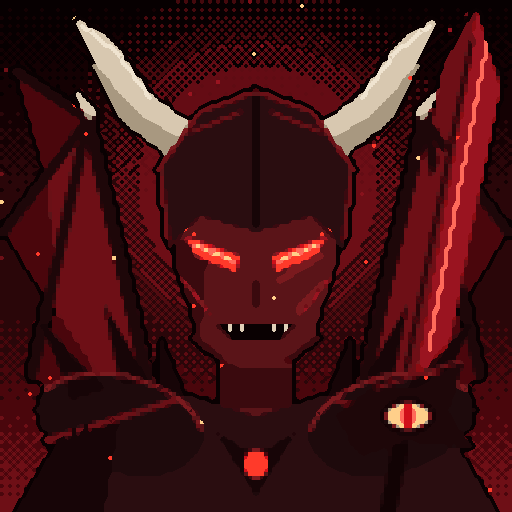
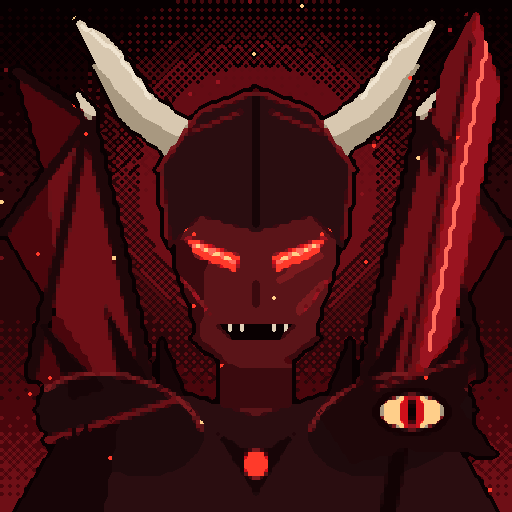
Aatrox: pixel-art renderer and portrait in game; Darkin Blade weapon in Pixel Studio
The game now draws Aatrox as cel-shaded pixel art every frame from its own
pose joints and Darkin Blade angle, so every move and state is unchanged.
The blade keeps the game's size, bat-wing guard and eye (half-lidded,
opening and glowing with Deathbringer). Sprites are cached with a 15 fps
pose clock. His portrait is the Pixel Studio bust with a larger blade eye.
The character builder gains a Darkin Blade weapon with the same geometry.

Claude-Session: https://claude.ai/code/session_01NEpsBomhZztKFMZ78LpZsN

diff --git a/js/aatrox_pixel.js b/js/aatrox_pixel.js
@@ -1,0 +1,210 @@
+// ============================================================
+//  MOONKAI — AATROX pixel art (drawn with the Moonkai Pixel Studio style).
+//
+//  Aatrox is rendered live as cel-shaded pixel art: every frame takes the
+//  game's own pose joints (humanPose) and Darkin Blade angle (aatSwordAng),
+//  paints him at half resolution with outlines and palette-snapped colours,
+//  then blits the sprite back with crisp nearest-neighbour pixels.
+//  All moves, timings and states stay exactly as the game drives them.
+// ============================================================
+
+const AATPX = (() => {
+  const K = 0.5;                                   // art pixels per game unit
+  const X0 = -175, Y0 = -270, UW = 400, UH = 310;  // sprite window in game units
+  const PW = Math.round(UW * K), PH = Math.round(UH * K);
+  const mk = () => { const c = document.createElement('canvas'); c.width = PW; c.height = PH; return [c, c.getContext('2d', { willReadFrequently: true })]; };
+  const [cv, X] = mk(), [tc, T] = mk();
+  const OUT = '#0a0102';
+  const PAL = [OUT, '#120304', '#150204', '#170507', '#1e0709', '#1e0a0c', '#2a0609', '#2a0a0c', '#2a0d10', '#3a080c', '#3a0a10', '#4a060c',
+    '#5a1418', '#6e0f16', '#7a1a1e', '#9a1420', '#aa141e', '#6a1016', '#ff2a2a', '#ff5a3a', '#d8c8b0', '#a89880', '#e0d0b8', '#ffcf8a', '#d0101a', '#000000', '#1b0306', '#140405', '#150406'];
+  const pal = PAL.map(h => { const n = parseInt(h.slice(1), 16); return [n >> 16 & 255, n >> 8 & 255, n & 255]; });
+  const snapCache = new Map(), cache = new Map();
+  const so = 2.4;                                  // cel-shade offset (units): light from top-left
+  const lw = 2 / K;                                // outline stroke width (units) -> 1 art pixel outside
+
+  const setT = ctx => ctx.setTransform(K, 0, 0, K, -X0 * K, -Y0 * K);
+  // Fill pieces in shade, overlay the base colour shifted toward the light, outline underneath.
+  function paint(pieces, base, shade, outline = true) {
+    T.setTransform(1, 0, 0, 1, 0, 0); T.clearRect(0, 0, PW, PH); setT(T);
+    T.fillStyle = shade; for (const p of pieces) T.fill(p);
+    T.globalCompositeOperation = 'source-atop'; T.fillStyle = base;
+    T.save(); T.translate(-so, -so); for (const p of pieces) T.fill(p); T.restore();
+    if (outline) { T.globalCompositeOperation = 'destination-over'; T.strokeStyle = OUT; T.lineWidth = lw; T.lineJoin = 'round'; for (const p of pieces) T.stroke(p); }
+    T.globalCompositeOperation = 'source-over';
+    X.setTransform(1, 0, 0, 1, 0, 0); X.drawImage(tc, 0, 0); setT(X);
+  }
+  const cap = (a, b, r) => { const p = new Path2D(), d = Math.hypot(b[0] - a[0], b[1] - a[1]) || 1, nx = -(b[1] - a[1]) / d * r, ny = (b[0] - a[0]) / d * r;
+    p.arc(a[0], a[1], r, 0, 7); p.moveTo(b[0] + r, b[1]); p.arc(b[0], b[1], r, 0, 7);
+    p.moveTo(a[0] + nx, a[1] + ny); p.lineTo(b[0] + nx, b[1] + ny); p.lineTo(b[0] - nx, b[1] - ny); p.lineTo(a[0] - nx, a[1] - ny); p.closePath(); return p; };
+  const poly = pts => { const p = new Path2D(); pts.forEach((q, i) => i ? p.lineTo(q[0], q[1]) : p.moveTo(q[0], q[1])); p.closePath(); return p; };
+  const ell = (x, y, rx, ry, rot = 0, a0 = 0, a1 = 7) => { const p = new Path2D(); p.ellipse(x, y, rx, ry, rot, a0, a1); if (a1 < 7) p.closePath(); return p; };
+  const moved = (p, m) => { const q = new Path2D(); q.addPath(p, m); return q; };
+  const L = (a, b, t) => [a[0] + (b[0] - a[0]) * t, a[1] + (b[1] - a[1]) * t];
+
+  // ---- the Darkin Blade: same geometry as the game's vector blade, with the eye ----
+  function blade(hx, hy, len, ang, o) {
+    const w = o.w || 1, bw = 14 * w, m = new DOMMatrix().translate(hx, hy).rotate(ang * 180 / Math.PI);
+    paint([moved(cap([-24 * w, 0], [6, 0], 2.8 * w), m)], '#140405', '#0a0102');
+    paint([moved(poly([[-24 * w, -4], [-34 * w, 0], [-24 * w, 4]]), m)], '#2a0a0c', '#150406');
+    const body = new Path2D(); body.moveTo(12, -bw * .7);
+    for (let i = 1; i <= 7; i++) body.lineTo(12 + (len - 12) * i / 8, -bw * .7 * (1 - i / 9) - (i % 2 ? 7 * w : 0));
+    body.lineTo(len, bw * .05); body.quadraticCurveTo(len * .62, bw * 1.05, 12, bw * .75); body.closePath();
+    paint([moved(body, m)], '#6e0f16', '#3a080c');
+    X.save(); X.transform(m.a, m.b, m.c, m.d, m.e, m.f);
+    X.strokeStyle = o.glow > 0 ? '#ff5a3a' : '#aa141e'; X.lineWidth = 2.6 * w; X.lineCap = 'round';
+    X.beginPath(); X.moveTo(18, bw * .12); X.quadraticCurveTo(len * .55, bw * .3, len * .9, bw * .08); X.stroke();
+    X.strokeStyle = '#9a1420'; X.lineWidth = 1.6; X.beginPath(); X.moveTo(14, -bw * .62); X.lineTo(len * .96, -bw * .02); X.stroke();
+    X.restore();
+    const guard = new Path2D(); guard.moveTo(4, -18 * w); guard.quadraticCurveTo(14, -6, 8, 0); guard.quadraticCurveTo(14, 6, 4, 18 * w);
+    guard.lineTo(16, 10); guard.lineTo(18, 0); guard.lineTo(16, -10); guard.closePath();
+    paint([moved(guard, m)], '#1e0709', '#120304');
+    // the eye: lid, sclera, slit iris, pupil
+    const ex = len * .3, ew = 11 * w, eh = 7 * w * Math.max(.08, o.eye);
+    paint([moved(ell(ex, 0, ew + 2.5, Math.max(3, eh + 2.5)), m)], '#150204', '#150204');
+    X.save(); X.transform(m.a, m.b, m.c, m.d, m.e, m.f);
+    if (o.eye > .1) {
+      X.fillStyle = '#ffcf8a'; X.beginPath(); X.ellipse(ex, 0, ew, eh, 0, 0, 7); X.fill();
+      X.fillStyle = '#d0101a'; X.beginPath(); X.ellipse(ex, 0, ew * .45, eh, 0, 0, 7); X.fill();
+      X.fillStyle = '#000000'; X.beginPath(); X.ellipse(ex, 0, Math.max(1.2, ew * .14), eh * .9, 0, 0, 7); X.fill();
+    } else { X.strokeStyle = '#ff2a2a'; X.lineWidth = 2; X.beginPath(); X.moveTo(ex - ew, 0); X.lineTo(ex + ew, 0); X.stroke(); }
+    X.restore();
+    return m.transformPoint(new DOMPoint(ex, 0));
+  }
+
+  // ---- bat wings (same rig as the game) ----
+  function wings(P, t, big) {
+    const s = big ? 1.25 : .55, flap = Math.sin(t * (big ? 5 : 2.5)) * (big ? .12 : .04);
+    for (const side of [-1, 1]) {
+      const m = new DOMMatrix().translate(P.sh[0] - 6, P.sh[1] + 2).rotate(((big ? -.35 : -.95) + side * (big ? .28 : .12) + flap * side) * 180 / Math.PI).scale(s, s);
+      const mem = new Path2D(); mem.moveTo(0, 0); mem.lineTo(-34, -40); mem.lineTo(-92, -72); mem.quadraticCurveTo(-84, -48, -104, -22);
+      mem.quadraticCurveTo(-86, -10, -86, 18); mem.quadraticCurveTo(-64, 12, -44, 34); mem.quadraticCurveTo(-26, 16, 0, 10); mem.closePath();
+      const far = side < 0;
+      paint([moved(mem, m)], far ? '#2a0609' : '#4a060c', far ? '#1b0306' : '#2a0609');
+      const pt = (x, y) => { const q = m.transformPoint(new DOMPoint(x, y)); return [q.x, q.y]; };
+      const J = pt(-34, -40), r = Math.max(1.6, 2.2 * s);
+      paint([cap(pt(0, 0), J, r), cap(J, pt(-92, -72), r), cap(J, pt(-104, -22), r * .8), cap(J, pt(-86, 18), r * .8), cap(J, pt(-44, 34), r * .8)], '#1e0709', '#120304');
+      paint([poly([J, pt(-40, -54), pt(-29, -44)])], '#d8c8b0', '#a89880');
+    }
+  }
+
+  function snap() {
+    X.setTransform(1, 0, 0, 1, 0, 0);
+    const img = X.getImageData(0, 0, PW, PH), d = img.data;
+    for (let i = 0; i < d.length; i += 4) {
+      if (d[i + 3] < 110) { d[i + 3] = 0; continue; }
+      const key = d[i] << 16 | d[i + 1] << 8 | d[i + 2];
+      let c = snapCache.get(key);
+      if (!c) {
+        let bd = 1e9;
+        for (const q of pal) { const e = (d[i] - q[0]) ** 2 * 2 + (d[i + 1] - q[1]) ** 2 * 4 + (d[i + 2] - q[2]) ** 2 * 3; if (e < bd) { bd = e; c = q; } }
+        snapCache.set(key, c);
+      }
+      d[i] = c[0]; d[i + 1] = c[1]; d[i + 2] = c[2]; d[i + 3] = 255;
+    }
+    X.putImageData(img, 0, 0);
+  }
+
+  function draw(c, v) {
+    const t = v.anim || 0, D = !!v.transformed;
+    if (v.state === 'cocoon') { drawAatroxCocoon(c, v, t); return; }
+    // Pixel-art timing: the pose clock steps at 15 fps and finished sprites are cached,
+    // so each pose is painted once and reused across game frames.
+    const tq = Math.round(t * 15) / 15, P = humanPose(v.pose, tq), B = 1.04;
+    const ready = v.dbReady ? .6 + .4 * Math.sin(tq * 8) : 0, blink = (tq % 4.3) < .12 ? .1 : 1;
+    const eye = (v.dbReady || D ? 1 : .35) * blink, glow = Math.max(ready, D ? .45 : 0), ang = aatSwordAng(v);
+    const len = D ? 150 : 124, bw = D ? 1.15 : 1;
+    const key = `${v.pose}|${tq}|${D ? 1 : 0}|${eye}|${glow > 0 ? 1 : 0}|${Math.round(ang * 20)}`;
+    let spr = cache.get(key), eyeAt;
+    if (spr) { cache.delete(key); cache.set(key, spr); eyeAt = spr.eyeAt; }
+    else {
+    X.setTransform(1, 0, 0, 1, 0, 0); X.clearRect(0, 0, PW, PH); setT(X);
+    const skin = D ? ['#9a1420', '#6e0f16'] : ['#7a1a1e', '#5a1418'], skinF = D ? ['#6e0f16', '#4a060c'] : ['#5a1418', '#3a0a10'];
+    const acc = D ? '#ff2a2a' : '#6a1016';
+
+    wings(P, tq, D);
+    // far limbs (darker)
+    paint([cap(P.hip, P.bK, 5.8), cap(P.bK, P.bF, 5)], '#1e0709', '#150406');
+    paint([cap(L(P.bK, P.bF, .45), P.bF, 5.4), cap(P.bF, [P.bF[0] + 9, P.bF[1] - 1], 4.2)], '#150204', OUT);
+    paint([cap(P.sh, P.bE, 4.8)], ...skinF);
+    paint([cap(P.bE, P.bH, 4.4)], '#1e0709', '#120304');
+    paint([ell(P.bH[0], P.bH[1], 5, 5)], '#1e0709', '#120304');
+    // torso: plated cuirass over crimson flesh
+    const sh = P.sh, hp = P.hip;
+    paint([poly([[sh[0] - 13, sh[1] - 2], [sh[0] + 13, sh[1] - 2], [hp[0] + 10, hp[1] + 4], [hp[0] - 11, hp[1] + 4]]), cap([sh[0] - 11, sh[1]], [sh[0] + 11, sh[1]], 5)], ...skin);
+    paint([poly([[sh[0] - 11, sh[1] + 4], [sh[0] + 12, sh[1] + 4], [hp[0] + 9, hp[1] - 6], [hp[0] - 9, hp[1] - 6]])], '#2a0d10', '#170507');
+    X.strokeStyle = D ? '#ff5a3a' : '#9a1420'; X.lineWidth = 2;
+    for (let i = 0; i < 3; i++) { const k = .38 + i * .17, x = hp[0] + (sh[0] - hp[0]) * k, y = hp[1] + (sh[1] - hp[1]) * k; X.beginPath(); X.moveTo(x - 8, y + 2); X.quadraticCurveTo(x, y - 4, x + 8, y + 2); X.stroke(); }
+    paint([cap([hp[0] - 11, hp[1] + 2], [hp[0] + 11, hp[1] + 2], 3)], acc, '#3a080c');
+    paint([ell(hp[0] + 2, hp[1] + 2, 3.2, 3.2)], '#ff2a2a', '#aa141e', false);
+    // near leg
+    paint([cap(P.hip, P.fK, 6.2), cap(P.fK, P.fF, 5.4)], '#2a0a0c', '#150406');
+    paint([cap(L(P.fK, P.fF, .45), P.fF, 5.8), cap(P.fF, [P.fF[0] + 10, P.fF[1] - 1], 4.5)], '#1e0709', OUT);
+    paint([ell(P.fK[0], P.fK[1], 6, 5.5)], '#2a0d10', '#170507');
+    // neck + head: skull-helm, bone horns, fanged jaw, burning eye slit
+    paint([cap(P.sh, [P.head[0], P.head[1] + 6], 4.4)], ...skin);
+    const [hx, hy] = P.head, H2 = D ? 1.35 : 1;
+    const horn = (x0, y0, cx, cy, x1, y1, x2, y2) => { const p = new Path2D(); p.moveTo(x0, y0); p.quadraticCurveTo(cx, cy, x1, y1); p.quadraticCurveTo(x2, y2, x0 + 7, y0 - 3); p.closePath(); return p; };
+    paint([horn(hx - 6, hy - 9, hx - 22 * H2, hy - 16 * H2, hx - 30 * H2, hy - 40 * H2, hx - 16 * H2, hy - 24)], '#d8c8b0', '#a89880');
+    paint([horn(hx + 2, hy - 12, hx + 4, hy - 26 * H2, hx - 6 * H2, hy - 34 * H2, hx, hy - 22)], '#a89880', '#7a6c5a');
+    paint([poly([[hx - 12, hy - 5], [hx - 6, hy - 13], [hx + 8, hy - 12], [hx + 15, hy - 4], [hx + 18, hy + 5], [hx + 11, hy + 13], [hx + 2, hy + 11], [hx - 8, hy + 8]])], '#2a0d10', '#170507');
+    X.strokeStyle = '#6a1016'; X.lineWidth = 1.6; X.beginPath(); X.moveTo(hx - 4, hy - 11); X.lineTo(hx + 14, hy - 3); X.stroke();
+    X.fillStyle = OUT; X.beginPath(); X.moveTo(hx + 4, hy + 5); X.lineTo(hx + 17, hy + 5); X.lineTo(hx + 12, hy + 10); X.lineTo(hx + 4, hy + 9); X.fill();
+    X.fillStyle = '#e0d0b8'; for (let i = 0; i < 4; i++) { const f0 = hx + 5 + i * 3; X.beginPath(); X.moveTo(f0, hy + 5); X.lineTo(f0 + 1.5, hy + 9); X.lineTo(f0 + 3, hy + 5); X.fill(); }
+    X.fillStyle = '#ff2a2a'; X.beginPath(); X.moveTo(hx + 3, hy - 5); X.lineTo(hx + 16, hy - 2); X.lineTo(hx + 5, hy); X.fill();
+    X.fillStyle = '#ffcf8a'; X.beginPath(); X.moveTo(hx + 6, hy - 3.5); X.lineTo(hx + 13, hy - 2); X.lineTo(hx + 7, hy - 1.5); X.fill();
+    // spiked pauldron
+    paint([ell(sh[0] + 2, sh[1] + 2, 15, 10, -.2, Math.PI, Math.PI * 2.1)], '#2a0d10', '#170507');
+    paint([[-8, 16], [0, 22], [8, 15]].map(([dx, h]) => poly([[sh[0] + dx - 3, sh[1] - 4], [sh[0] + dx - 5, sh[1] - 4 - h], [sh[0] + dx + 3, sh[1] - 5]])), '#1e0709', '#120304');
+    X.strokeStyle = D ? '#ff2a2a' : '#6a1016'; X.lineWidth = 2; X.beginPath(); X.ellipse(sh[0] + 2, sh[1] + 2, 15, 10, -.2, Math.PI, Math.PI * 2.1); X.stroke();
+    // near arm + blood tendrils + the Darkin Blade in hand
+    paint([cap(P.sh, P.fE, 5.2)], ...skin);
+    paint([cap(P.fE, P.fH, 4.8), cap(L(P.fE, P.fH, .4), L(P.fE, P.fH, .85), 5.4)], '#2a0d10', '#170507');
+    eyeAt = blade(P.fH[0], P.fH[1], len, ang, { eye, glow, w: bw });
+    X.strokeStyle = D ? '#ff5a3a' : '#aa141e'; X.lineWidth = 2;
+    for (const k of [.4, .7]) { const e = L(P.fE, P.fH, k); X.beginPath(); X.moveTo(e[0], e[1]); X.quadraticCurveTo(e[0] + 6, e[1] - 8 + Math.sin(tq * 6 + k * 9) * 3, P.fH[0], P.fH[1]); X.stroke(); }
+    paint([ell(P.fH[0], P.fH[1], 5.6, 5.6)], '#2a0d10', '#170507');
+    snap();
+    spr = document.createElement('canvas'); spr.width = PW; spr.height = PH; spr.getContext('2d').drawImage(cv, 0, 0); spr.eyeAt = eyeAt;
+    cache.set(key, spr);
+    if (cache.size > 160) cache.delete(cache.keys().next().value);
+    }
+    const [hx, hy] = P.head;
+
+    // blit with crisp pixels, then the game's glow effects on top
+    c.save(); c.scale(B, B);
+    if (D) glowCircle(c, 0, -70, 130, 'rgba(255,20,30,0.3)', 'rgba(80,0,0,0)');
+    const sm = c.imageSmoothingEnabled; c.imageSmoothingEnabled = false;
+    c.drawImage(spr, X0, Y0, UW, UH);
+    c.imageSmoothingEnabled = sm;
+    c.globalCompositeOperation = 'lighter';
+    glowCircle(c, hx + 10, hy - 3, D ? 11 : 7, 'rgba(255,40,20,0.9)', 'rgba(255,0,0,0)');
+    if (glow > 0) {
+      c.save(); c.translate(P.fH[0], P.fH[1]); c.rotate(ang);
+      c.strokeStyle = `rgba(255,40,30,${0.3 * glow})`; c.lineWidth = 12 * bw; c.beginPath(); c.moveTo(14, 0); c.lineTo(len, 0); c.stroke(); c.restore();
+      glowCircle(c, eyeAt.x, eyeAt.y, 22 * bw * glow, 'rgba(255,60,30,0.9)', 'rgba(255,0,0,0)');
+    }
+    c.globalCompositeOperation = 'source-over';
+    c.restore();
+  }
+
+  // Portrait: the Pixel Studio Aatrox bust (pixel/examples/aatrox.png, 128x128).
+  const portraitImg = new Image();
+  portraitImg.onload = () => { for (const k in PortraitCache) if (k.startsWith('aatrox:')) delete PortraitCache[k]; };
[1 lines of base64/hex data omitted]
+  function portrait(c, opts = {}) {
+    if (!portraitImg.complete || !portraitImg.naturalWidth) { drawAatroxPortraitVector(c, opts); return; }
+    const sm = c.imageSmoothingEnabled; c.imageSmoothingEnabled = false;
+    c.drawImage(portraitImg, 0, 0, 100, 100);
+    c.imageSmoothingEnabled = sm;
+    if (opts.form) { // World Ender: burning aura and embers
+      c.globalCompositeOperation = 'lighter';
+      glowCircle(c, 50, 46, 60, 'rgba(255,30,20,0.35)', 'rgba(255,0,0,0)');
+      c.fillStyle = 'rgba(255,90,40,0.85)';
+      for (let i = 0; i < 14; i++) c.fillRect((i * 37) % 100, 96 - ((i * 23) % 70), 1.6, 1.6);
+      c.globalCompositeOperation = 'source-over';
+    }
+  }
+  return { draw, portrait };
+})();
+function drawAatroxPixel(c, v) { AATPX.draw(c, v); }
+function drawAatroxPixelPortrait(c, opts) { AATPX.portrait(c, opts); }

diff --git a/pixel/character.js b/pixel/character.js
@@ -12,7 +12,7 @@
   const PRESETS = {
     'Angel': { heads: 6.5, build: 'slim', frame: 'feminine', hairStyle: 'long', sleeves: 'long', bottomStyle: 'skirt', wings: 'angel', headgear: 'halo', weapon: 'spear', cape: false,
       skin: '#f7dcc0', hair: '#fff0b0', eyes: '#6a5aa8', top: '#f4f0ff', bottom: '#fffbe8', boots: '#e6c060', accent: '#e6c060', outline: '#2a1f4a' },
-    'Darkin': { heads: 7.5, build: 'muscular', frame: 'masculine', hairStyle: 'spiky', sleeves: 'sleeveless', bottomStyle: 'pants', wings: 'demon', headgear: 'horns', weapon: 'sword', cape: false,
+    'Darkin': { heads: 7.5, build: 'muscular', frame: 'masculine', hairStyle: 'spiky', sleeves: 'sleeveless', bottomStyle: 'pants', wings: 'demon', headgear: 'horns', weapon: 'darkin', cape: false,
       skin: '#7a1a1e', hair: '#2a0d10', eyes: '#ff3a2a', top: '#2a0d10', bottom: '#2a0a0c', boots: '#1e0709', accent: '#6a1016', outline: '#0a0102' },
     'Schoolgirl': { heads: 6.5, build: 'slim', frame: 'feminine', hairStyle: 'twintails', sleeves: 'short', bottomStyle: 'skirt', wings: 'none', headgear: 'none', weapon: 'none', cape: false,
       skin: '#fde0cc', hair: '#ff85b8', eyes: '#4aa8f0', top: '#ffffff', bottom: '#3a4466', boots: '#5a3a2a', accent: '#e43b44', outline: '#2a1f2d' },
@@ -36,7 +36,7 @@
     ['bottomStyle', 'Bottoms', ['pants', 'skirt', 'shorts']],
     ['wings', 'Wings', ['none', 'angel', 'demon']],
     ['headgear', 'Headgear', ['none', 'halo', 'horns', 'catears']],
-    ['weapon', 'Weapon', ['none', 'sword', 'spear', 'staff']],
+    ['weapon', 'Weapon', ['none', 'sword', 'spear', 'staff', 'darkin']],
     ['cape', 'Cape', 'check'],
     ['skin', 'Skin', 'color'], ['hair', 'Hair colour', 'color'], ['eyes', 'Eyes', 'color'], ['top', 'Top', 'color'],
     ['bottom', 'Bottoms colour', 'color'], ['boots', 'Boots', 'color'], ['accent', 'Accent', 'color'], ['outline', 'Outline', 'color'],
@@ -65,11 +65,11 @@
 
   // ---------- rig ----------
   function proportions(o, W, Hc) {
-    const H = Hc * (o.wings !== 'none' || o.headgear === 'horns' ? .72 : .78), h = H / o.heads, bm = { slim: .85, normal: 1, muscular: 1.3 }[o.build], masc = o.frame === 'masculine';
+    const H = Hc * (o.weapon === 'darkin' ? .5 : o.wings !== 'none' || o.headgear === 'horns' ? .72 : .78), h = H / o.heads, bm = { slim: .85, normal: 1, muscular: 1.3 }[o.build], masc = o.frame === 'masculine';
     const leg = H * (o.heads <= 3.5 ? .3 : o.heads <= 5.5 ? .42 : .48), headNeck = h * 1.12, torso = H - leg - headNeck;
     return { H, h, leg, torso, thigh: leg * .5, shin: leg * .5, arm: torso * .95 + leg * .12, r: Math.max(1.1, H * .021 * bm),
       rx: h * .46, ry: h * .5, sw: H * (masc ? .105 : .09) * bm, ww: H * (masc ? .08 : .06) * bm, hw: H * (masc ? .08 : .095) * bm,
-      foot: Math.max(2, H * .05), cx: W * .5, floor: Hc * .95 };
+      foot: Math.max(2, H * .05), cx: W * (o.weapon === 'darkin' ? .42 : .5), floor: Hc * .95 };
   }
   function rig(P, pose) {
     const ext = L => Math.cos(L.th) * P.thigh + Math.cos(L.th - L.kn) * P.shin;
@@ -95,7 +95,7 @@
   const ell = (c, rx, ry, rot = 0) => { const p = new Path2D(); p.ellipse(c[0], c[1], Math.max(.5, rx), Math.max(.5, ry), rot, 0, TAU); return p; };
 
   function drawCharacter(o, anim, i) {
-    const Hc = +o.size, W = Hc, a = ANIMS[anim], pose = a.f(i / a.n, i, a.n);
+    const Hc = +o.size, W = o.weapon === 'darkin' ? Math.round(Hc * 1.5) : Hc, a = ANIMS[anim], pose = a.f(i / a.n, i, a.n);
     const P = proportions(o, W, Hc), R = rig(P, pose);
     const C = {}, used = new Set([o.outline, '#ffffff', o.eyes]);
     for (const k of ['skin', 'hair', 'top', 'bottom', 'boots', 'accent']) { C[k] = o[k]; C[k + 'S'] = shadeHex(o[k]); C[k + 'D'] = shadeHex(C[k + 'S'], -1, 10); }
@@ -207,6 +207,30 @@
     if (o.headgear === 'catears') paint([poly([[hd[0] - rx * .6, hd[1] - ry * .7], [hd[0] - rx * .55, hd[1] - ry * 1.45], [hd[0] - rx * .1, hd[1] - ry * .95]]),
       poly([[hd[0] + rx * .2, hd[1] - ry * .95], [hd[0] + rx * .55, hd[1] - ry * 1.5], [hd[0] + rx * .75, hd[1] - ry * .6]])], C.hair, C.hairS);
 
+    // The Darkin Blade, same geometry as Aatrox's blade in the game (units: 112 = body height).
+    function darkinBlade(at, ang, g, pose) {
+      const len = 124, bw = 14, m = new DOMMatrix().translate(at[0], at[1]).rotate(ang * 180 / Math.PI).scale(g, g);
+      const mv = p => { const q = new Path2D(); q.addPath(p, m); return q; };
+      const pc = (a, b, rr) => mv(cap(a, b, rr));
+      paint([pc([-24, 0], [6, 0], 2.8)], '#140405', '#0a0102');
+      const body = new Path2D(); body.moveTo(12, -bw * .7);
+      for (let k = 1; k <= 7; k++) body.lineTo(12 + (len - 12) * k / 8, -bw * .7 * (1 - k / 9) - (k % 2 ? 7 : 0));
+      body.lineTo(len, bw * .05); body.quadraticCurveTo(len * .62, bw * 1.05, 12, bw * .75); body.closePath();
+      paint([mv(body)], '#6e0f16', '#3a080c');
+      const guard = new Path2D(); guard.moveTo(4, -18); guard.quadraticCurveTo(14, -6, 8, 0); guard.quadraticCurveTo(14, 6, 4, 18); guard.lineTo(16, 10); guard.lineTo(18, 0); guard.lineTo(16, -10); guard.closePath();
+      paint([mv(guard)], '#1e0709', '#120304');
+      const ex = len * .3, ew = 11, eh = pose.blink ? 1 : 7;
+      paint([mv(ell([ex, 0], ew + 2.5, eh + 2.5))], '#150204', '#150204');
+      X.save(); X.transform(m.a, m.b, m.c, m.d, m.e, m.f);
+      X.strokeStyle = '#aa141e'; X.lineWidth = 2.6; X.lineCap = 'round'; X.beginPath(); X.moveTo(18, bw * .12); X.quadraticCurveTo(len * .55, bw * .3, len * .9, bw * .08); X.stroke();
+      if (!pose.blink) {
+        X.fillStyle = '#ffcf8a'; X.beginPath(); X.ellipse(ex, 0, ew, eh, 0, 0, TAU); X.fill();
+        X.fillStyle = '#d0101a'; X.beginPath(); X.ellipse(ex, 0, ew * .45, eh, 0, 0, TAU); X.fill();
+        X.fillStyle = '#000000'; X.beginPath(); X.ellipse(ex, 0, Math.max(1.5 / g, ew * .14), eh * .9, 0, 0, TAU); X.fill();
+      } else { X.strokeStyle = '#ff2a2a'; X.lineWidth = 2 / g; X.beginPath(); X.moveTo(ex - ew, 0); X.lineTo(ex + ew, 0); X.stroke(); }
+      X.restore();
+      for (const c of ['#aa141e', '#ffcf8a', '#d0101a', '#000000', '#ff2a2a']) used.add(c);
+    }
     // near arm, weapon, hand, swoosh
     const nA = R.arms[0];
     drawArm(nA, false, false);
@@ -226,9 +250,10 @@
       paint([cap([nA.hd[0], nA.hd[1] + P.H * .18], top, Math.max(.8, r * .5))], '#8a5a3a', '#5a3a2a');
       paint([ell(top, P.h * .18, P.h * .18)], C.accent, C.accentS);
     }
+    else if (o.weapon === 'darkin') darkinBlade(nA.hd, Math.atan2(wd[1], wd[0]), P.H / 112, pose);
     paint([ell(nA.hd, r * 1.15, r * 1.15)], C.skin, C.skinS);
     if (pose.swoosh && o.weapon !== 'none') {
-      const phi = a => Math.PI / 2 - a, rad = P.arm + (o.weapon === 'sword' ? P.H * .25 : P.H * .3);
+      const phi = a => Math.PI / 2 - a, rad = P.arm + (o.weapon === 'darkin' ? P.H * .9 : o.weapon === 'sword' ? P.H * .25 : P.H * .3);
       X.globalAlpha = .9; X.strokeStyle = '#ffffff'; X.lineWidth = Math.max(1.5, P.H * .03); X.lineCap = 'round';
       X.beginPath(); X.arc(nA.s[0], nA.s[1], rad, phi(pose.swoosh[0]), phi(pose.swoosh[1]), pose.swoosh[1] > pose.swoosh[0]); X.stroke();
       X.strokeStyle = C.accent; X.lineWidth = Math.max(1, P.H * .012); X.beginPath(); X.arc(nA.s[0], nA.s[1], rad - P.H * .03, phi(pose.swoosh[0]), phi(pose.swoosh[1]), pose.swoosh[1] > pose.swoosh[0]); X.stroke();

diff --git a/js/aatrox.js b/js/aatrox.js
@@ -158,7 +158,7 @@ function drawAatrox(c, v) {
 }
 
 // Portrait: a demon, not a person. Horned skull-helm, burning slits, fanged maw.
-function drawAatroxPortrait(c, opts = {}) {
+function drawAatroxPortraitVector(c, opts = {}) {
   const D = !!opts.form;
   const g = c.createRadialGradient(50, 58, 4, 50, 58, 78); g.addColorStop(0, D ? '#8a0c12' : '#4e0a0e'); g.addColorStop(1, '#070001'); c.fillStyle = g; c.fillRect(0, 0, 100, 100);
   if (D) { // wings behind
@@ -310,7 +310,7 @@ const aatrox = fighter({
   quote: 'I am not the darkness. I am what it fears.',
   ending: 'Aatrox finds no war worthy of him in Metro City. He sits on a rooftop, the eye of his sword watching the streets, waiting. The city sleeps nervously for a very long time.',
   hp: 1080, walk: 235, jumps: 2, scale: 1.15, deity: true, rival: 'aurelion', handArt: true,
-  draw: drawAatrox, drawPortrait: drawAatroxPortrait, transformCutscene: f => csAatroxWorldEnder(f),
+  draw: drawAatroxPixel, drawPortrait: drawAatroxPixelPortrait, transformCutscene: f => csAatroxWorldEnder(f),
   model: { skin: '#5a1418' }, face: { expr: 'angry' },
   style: { reach: 1.35, weapon: true, speed: 1.12, power: 1.1, heavy: true, poses: { '5M': 'heavy', '5H': 'slam' } },
   passive: ['Deathbringer Stance', 'The sword\'s eye opens every few seconds: his next hit rends 3.5% of the foe\'s max HP and heals him. Sweet spots charge it faster.'],

diff --git a/index.html b/index.html
@@ -75,6 +75,7 @@
 <script src="js/roster3.js"></script>
 <script src="js/roster4.js"></script>
 <script src="js/roster5.js"></script>
+<script src="js/aatrox_pixel.js"></script>
 <script src="js/aatrox.js"></script>
 <script src="js/volibear.js"></script>
 <script src="js/dio.js"></script>

diff --git a/pixel/README.md b/pixel/README.md
@@ -17,7 +17,7 @@ A pixel art editor that runs in the browser and is tuned for anime-style art. To
 - **Character builder** (the **Character** button): a rigged, full-body anime character with generated animations.
   - Presets: Angel, Darkin, Schoolgirl, Ninja, Knight, Mage and Chibi hero.
   - Proportions from chibi (3 heads) to heroic (7.5), plus build and body shape.
-  - Six hairstyles, sleeves, pants/skirt/shorts, wings (angel or demon), halo/horns/cat ears, a cape, and a sword, spear or staff.
+  - Six hairstyles, sleeves, pants/skirt/shorts, wings (angel or demon), halo/horns/cat ears, a cape, and a sword, spear, staff or Darkin Blade. The Darkin Blade is Aatrox's living greatsword from the game, with its eye, and uses a wider canvas.
   - Eight colour pickers, and a Randomize button.
   - Animations: idle (with a blink), walk, run, jump, attack (with a slash trail), hover, or all of them as one sprite set.
   - Frames are drawn as outlined, cel-shaded pixel art on Background, Shadow and Character layers. You can also add frames to an existing canvas.

diff --git a/README.md b/README.md
@@ -82,4 +82,4 @@ js/touch.js       on-screen touch controls and tap navigation
 
 ## Pixel Studio
 
-The `pixel/` folder holds **Moonkai Pixel Studio**, a pixel art and animation editor for anime-style art. Open `pixel/index.html` to use it. See [pixel/README.md](pixel/README.md) for details.
+The `pixel/` folder holds **Moonkai Pixel Studio**, a pixel art and animation editor for anime-style art. Open `pixel/index.html` to use it. See [pixel/README.md](pixel/README.md) for details. In the game, Aatrox and his portrait are drawn in the Pixel Studio style (`js/aatrox_pixel.js`).
